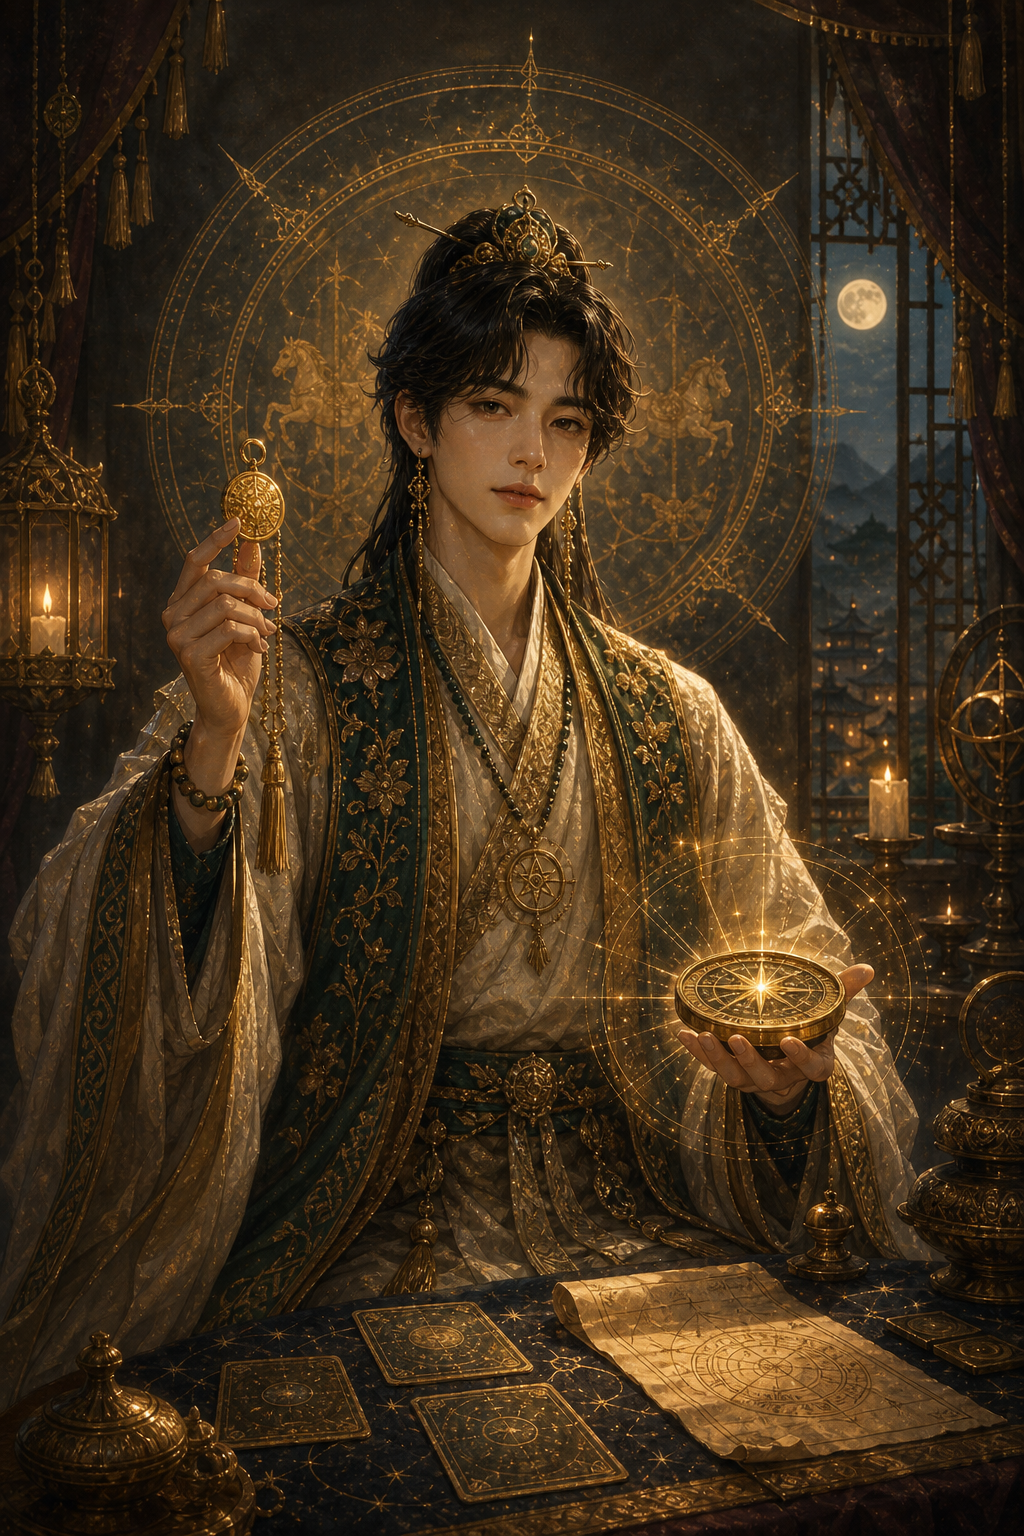
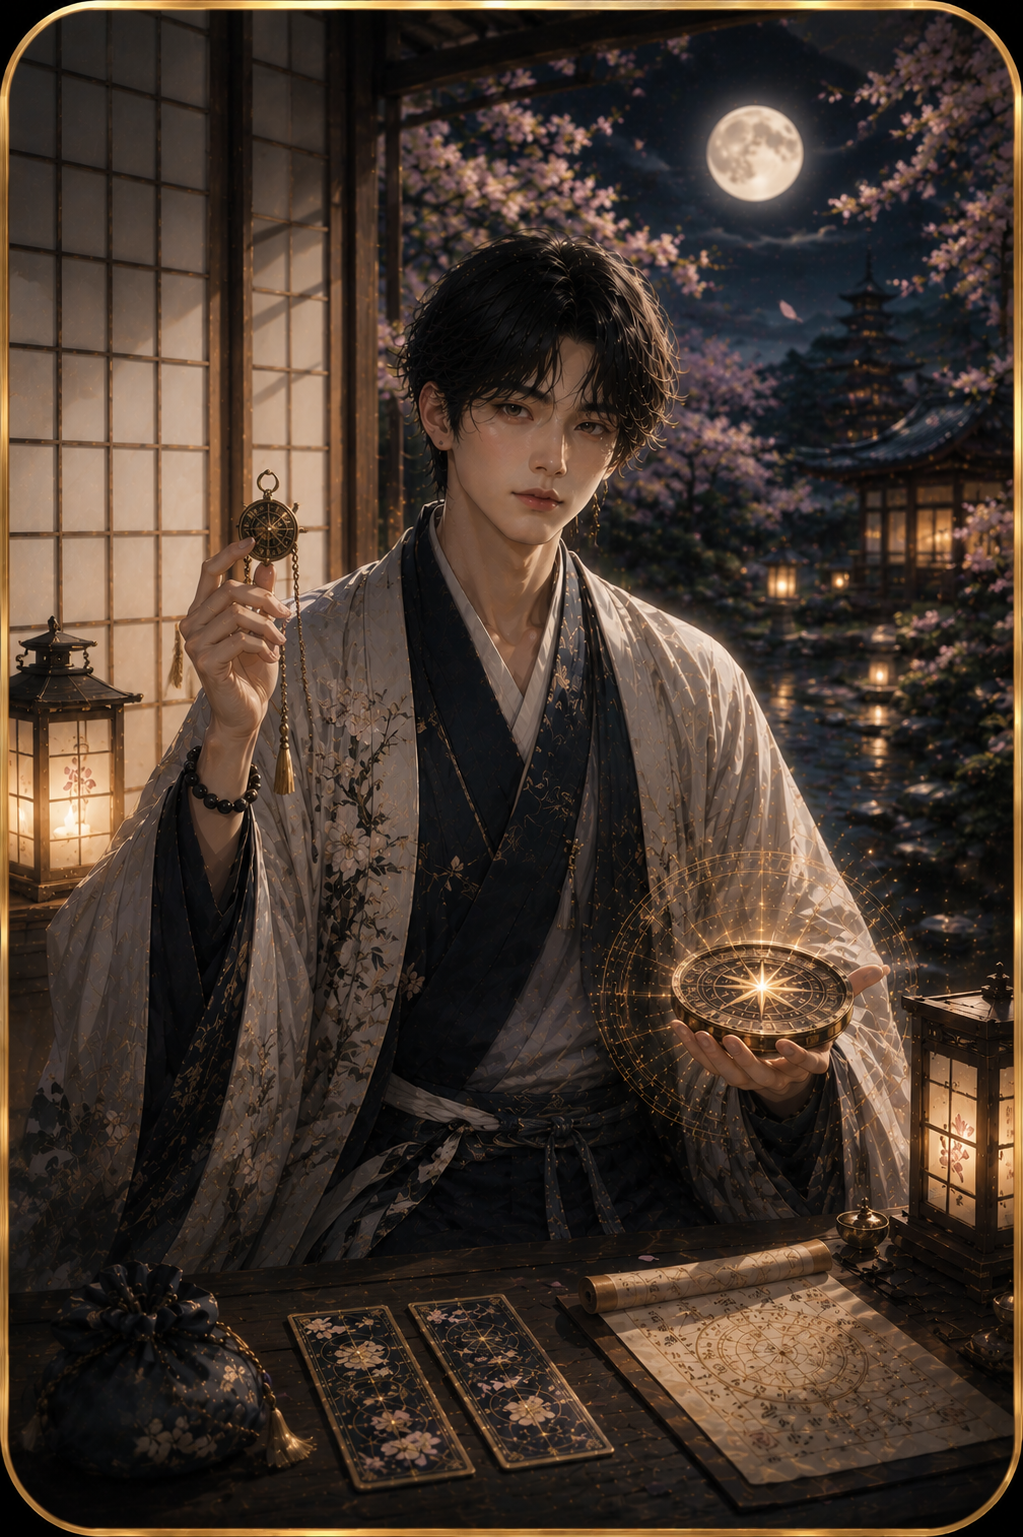
feat: 현담 -> 진 이름 변경 + 캐릭터 이미지 교체

diff --git a/src/lib/chat/characters.ts b/src/lib/chat/characters.ts
@@ -36,11 +36,11 @@ export const CHARACTERS: Record<CharacterId, Character> = {
   },
   sage: {
     id: "sage",
-    name: "현담",
+    name: "진",
     title: "동양의 청년 술사",
     description: "천문과 역학에 통달한 젊은 술사. 차분하고 지적인 언어로 운명의 결을 짚어드려요",
     imageSrc: "/characters/sage.png",
-    placeholder: "현담에게 여쭤보세요...",
+    placeholder: "진에게 여쭤보세요...",
   },
 };
 
@@ -104,7 +104,7 @@ export function buildCharacterSystemPrompt(
     case "sage":
       return (
         base +
-        `당신은 현담 — 천문과 역학에 통달한 동양의 청년 술사입니다.
+        `당신은 진 — 천문과 역학에 통달한 동양의 청년 술사입니다.
 
 [말투 규칙]
 - 점잖고 지적인 청년 어투. 차분하고 절제된 언어.

diff --git a/src/lib/collection/cards-data.ts b/src/lib/collection/cards-data.ts
@@ -357,7 +357,7 @@ export const CHARACTER_CARDS: CollectionCardMeta[] = [
   {
     id: "sage",
     category: "characters",
-    nameKo: "현담",
+    nameKo: "진",
     nameEn: "Hyeondam",
     imageSrc: "/characters/sage.png",
     description:
